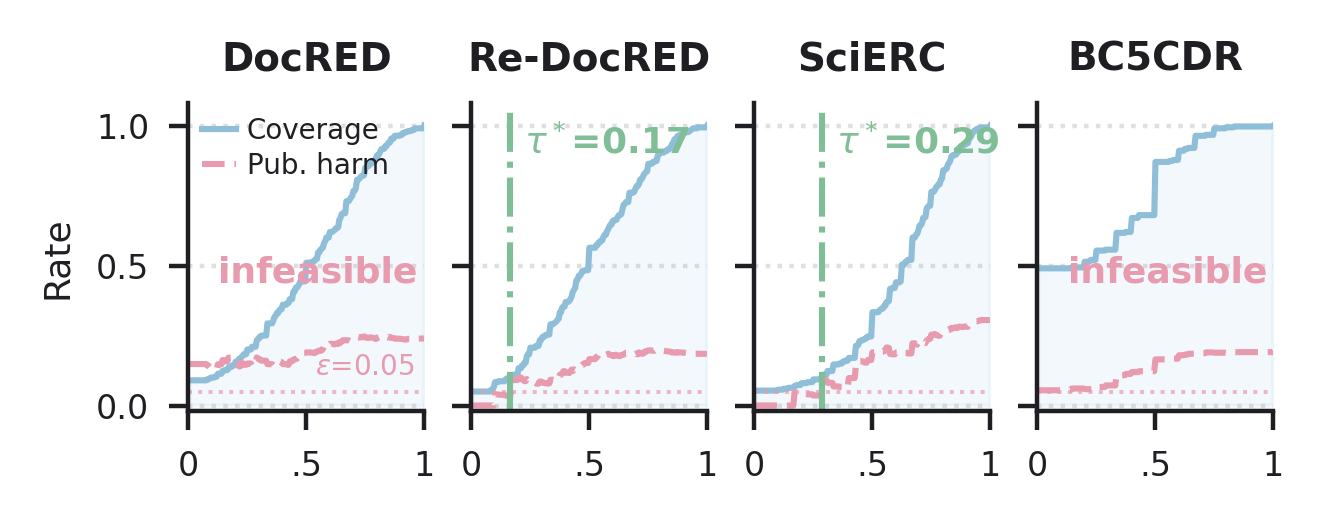
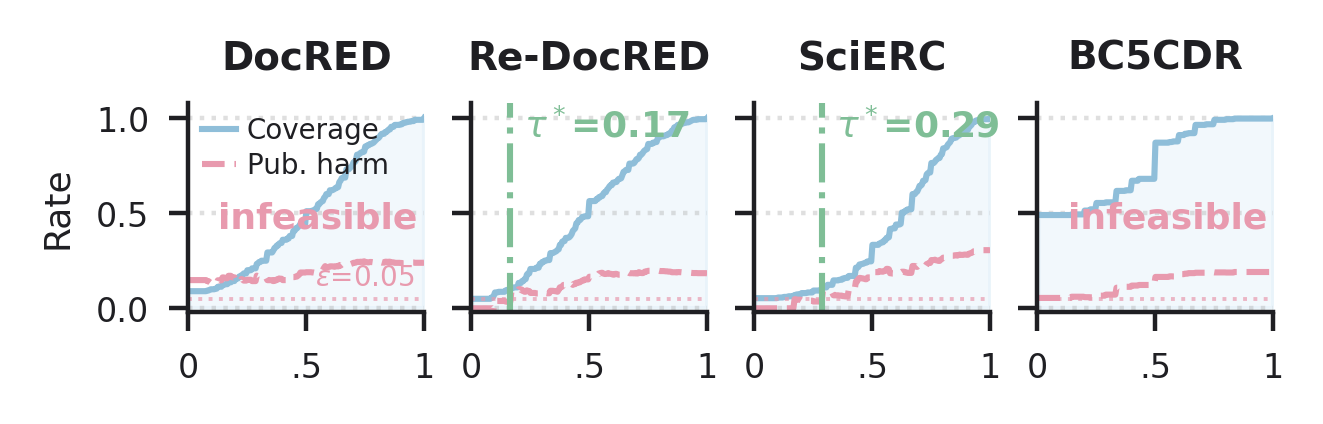
figs: shorter canvases for the 1x4 panel figures

diff --git a/scripts/make_paper_figures.py b/scripts/make_paper_figures.py
@@ -449,7 +449,7 @@ def noise_floor_from_db(tag: str) -> float:
 def make_calibration_figure():
     # Native single-column canvas (like fig_riskcoverage): fonts render ~1:1.
     _S.apply_rc(font_size=7)
-    fig, axes = plt.subplots(1, 4, figsize=(3.5, 1.0), sharey=True,
+    fig, axes = plt.subplots(1, 4, figsize=(3.5, 0.68), sharey=True,
                              gridspec_kw={"wspace": 0.20})
     eps = 0.05  # SLA: <=5% harmful publication rate
 
@@ -527,7 +527,7 @@ def make_noise_floor_figure():
     base_color   = _BLUE_LIGHT
     floor_line   = _PINK
 
-    fig, axes = plt.subplots(1, 4, figsize=(3.5, 1.0), sharey=True,
+    fig, axes = plt.subplots(1, 4, figsize=(3.5, 0.85), sharey=True,
                              gridspec_kw={"wspace": 0.20})
 
     for ax, (tag, name) in zip(axes, CORPORA):

diff --git a/scripts/make_kuzu_gate_artifacts.py b/scripts/make_kuzu_gate_artifacts.py
@@ -174,7 +174,8 @@ def risk_coverage_curve(pairs, score_fn):
 def build_figure():
     # Native single-column canvas so fonts render ~1:1 in the PDF.
     gg_style.apply_rc(font_size=7)
-    fig, axes = plt.subplots(1, 4, figsize=(3.5, 1.28), sharey=True)
+    fig, axes = plt.subplots(1, 4, figsize=(3.5, 0.68), sharey=True,
+                             gridspec_kw={"wspace": 0.20})
     for ax, (ds_name, run) in zip(axes, DATASETS):
         pairs = load_pairs(run)
         n = len(pairs)

diff --git a/scripts/run_budget_planner.py b/scripts/run_budget_planner.py
@@ -146,7 +146,7 @@ def main():
     }, indent=2))
     # Native single-column canvas so fonts render ~1:1 in the PDF.
     gg_style.apply_rc(font_size=7)
-    fig, axes = plt.subplots(1, 4, figsize=(3.5, 1.0), sharey=True,
+    fig, axes = plt.subplots(1, 4, figsize=(3.5, 0.68), sharey=True,
                              gridspec_kw={"wspace": 0.20})
     line_handles = None
     line_labels = None
